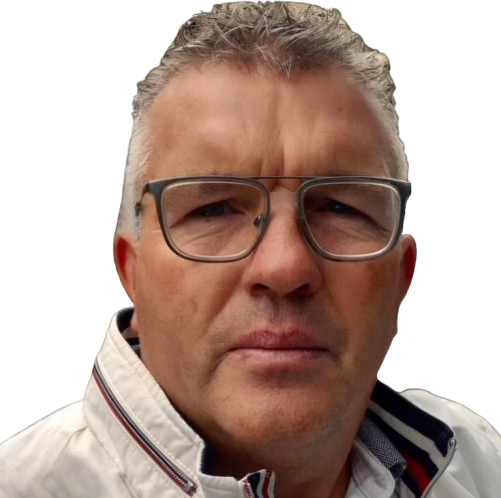
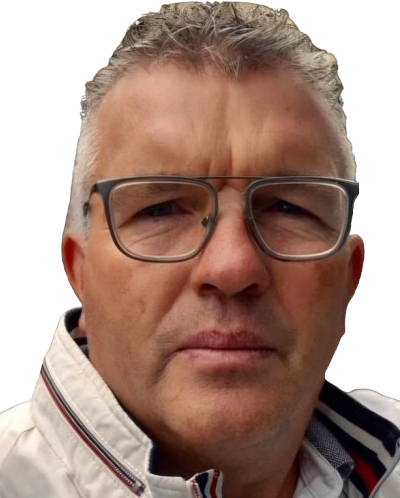
picfix

diff --git a/style.css b/style.css
@@ -25,16 +25,15 @@ header {
     display: flex;
     justify-content: center;
     align-items: center;
-    max-width: 100%;
+    width: 100%;
     padding-bottom: 1rem;
-    
     
 }
 #logo {
     
  z-index: 2;
- max-width: 100dvw;
- translate:0 -39%;
+ max-width: 100%;
+ translate:0 -35%;
  margin-bottom: -5rem;
  
  
@@ -43,10 +42,9 @@ header {
 
 #profile-picture {
     z-index: 1;
-    max-width: 90%;
-    margin-top: 1rem;
-    
-    
+    max-width: 100%;
+    translate: -2% 0;
+    padding-top: 2rem;
     
     
 }
